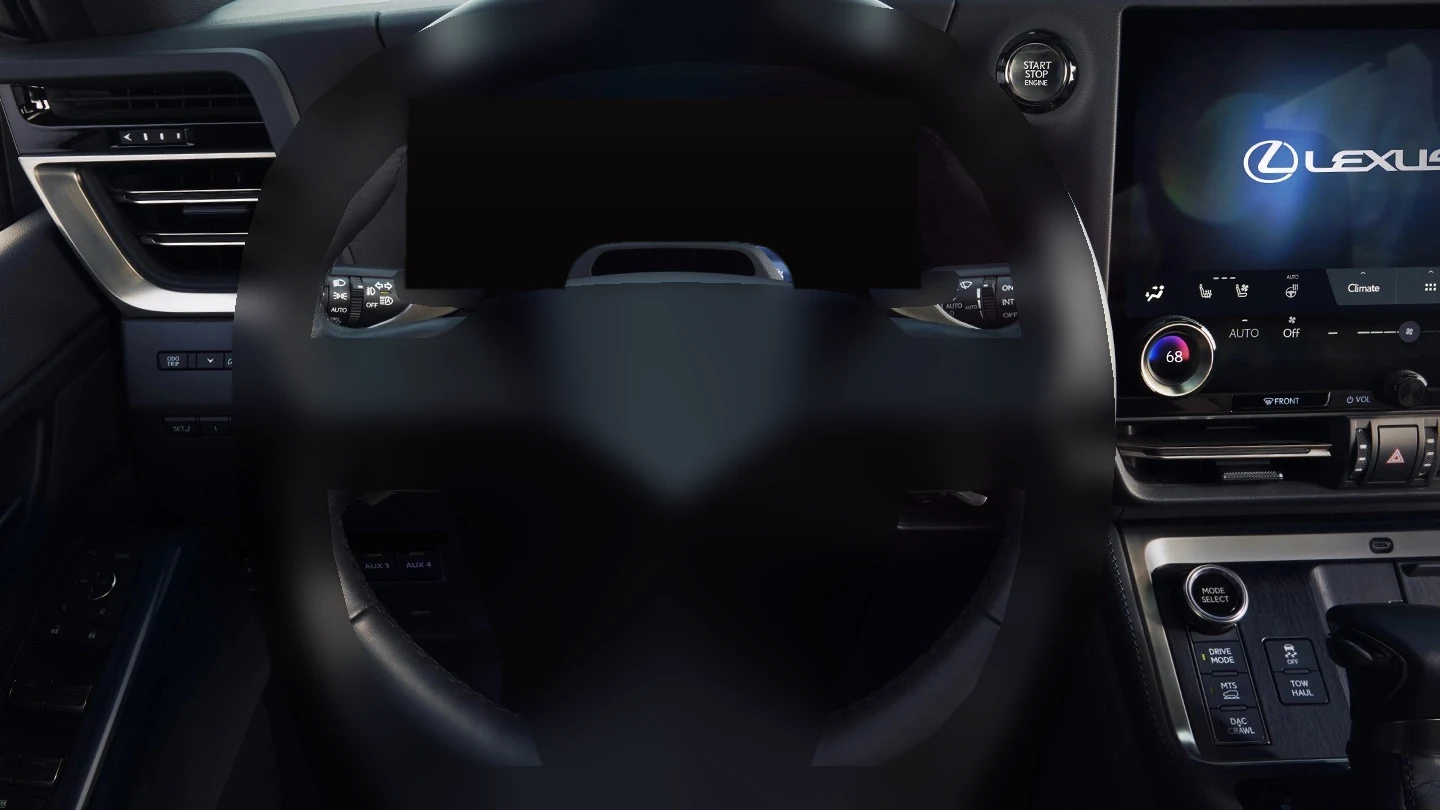
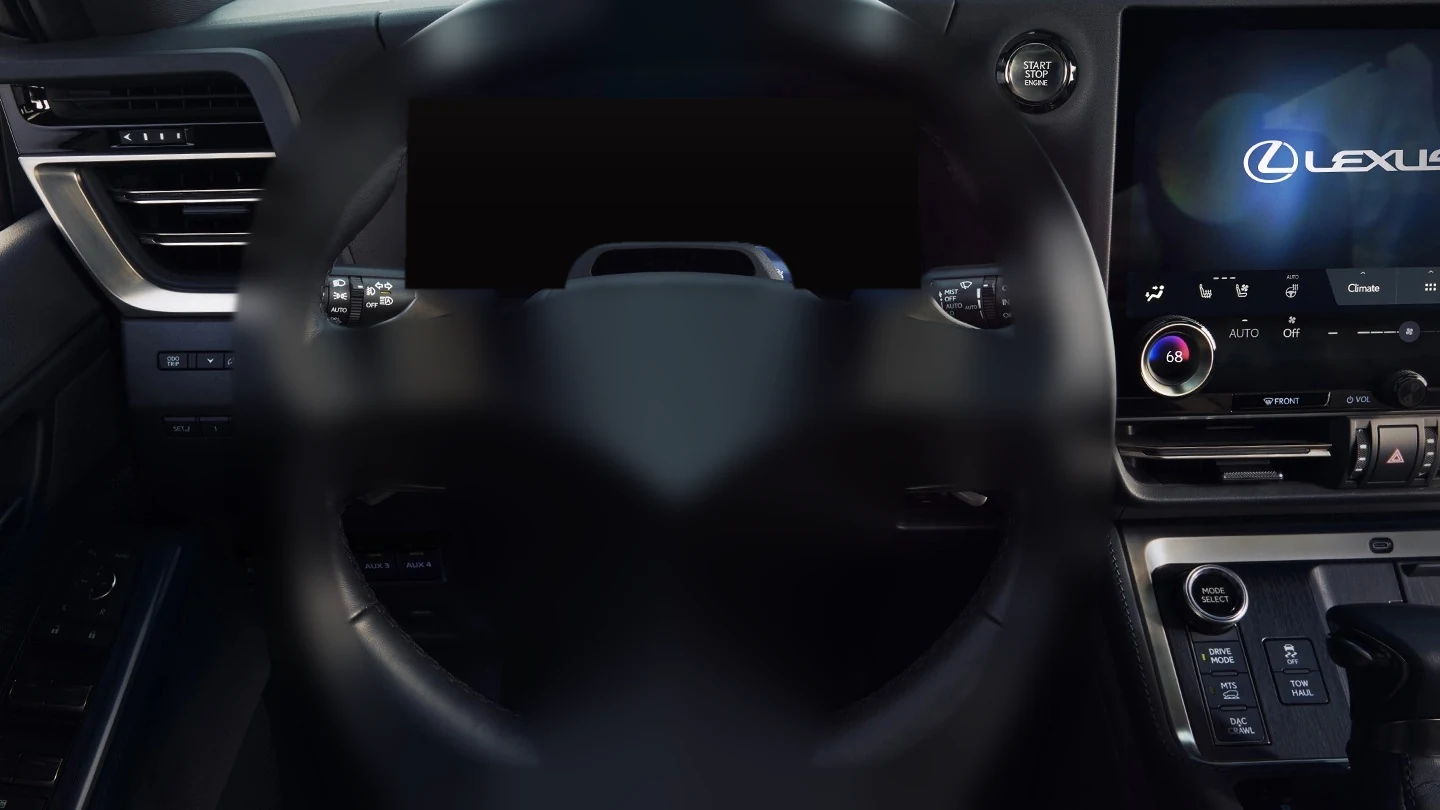
Rotate only the steering wheel; corners from the start
Re-traced the wheel matte: the edge above the spokes now runs just under the
turn-signal and wiper stalks, the right rim's inner edge and both paddles are
traced on the photo, so the stalks stay fixed while the wheel turns. The fill
behind the wheel is blended softly, leaving no ghost outline.

The road now opens with a short straight, then a right-hander, a left-hander
and an S-bend (first corner about 70 m after pulling away); later straights
are shorter too.

Claude-Session: https://claude.ai/code/session_012dHuLUxVx7ZRYT7UA9Zb8h

diff --git a/js/road.js b/js/road.js
@@ -42,7 +42,7 @@
   }
 
   function addSection() {
-    push(0, Math.round(pick(140, 420)));
+    push(0, Math.round(pick(70, 220)));
     const r = rnd();
     const dir = rnd() < 0.5 ? -1 : 1;
     if (r < 0.35) corner(dir, pick(300, 650), pick(20, 45));             // sweeping bend
@@ -54,7 +54,16 @@
     }
   }
 
-  push(0, 450);                    // a straight start
+  // corners from the very start: a short straight while pulling away, then a
+  // right-hander, a left-hander and an S-bend before the random sections begin
+  push(0, 70);
+  corner(1, 150, 55);
+  push(0, 60);
+  corner(-1, 135, 65);
+  push(0, 90);
+  corner(1, 170, 40);
+  push(0, 35);
+  corner(-1, 170, 40);
   function ensure(s) { while (K.length - 2 < s) addSection(); }
 
   function sample(arr, s) {

diff --git a/tools/build_gx_layers.py b/tools/build_gx_layers.py
@@ -42,17 +42,21 @@ OUTER = [
     (1015, 110), (1045, 155), (1068, 205), (1086, 255), (1098, 310), (1108, 380),
     (1110, 450), (1104, 520), (1092, 600), (1068, 680), (1040, 760), (1025, 815),
     (330, 815), (290, 700), (262, 600),]
+# opening above the spokes. Its lower edge follows the top of each spoke and runs
+# just under the turn-signal and wiper stalks, which belong to the column and
+# must stay put when the wheel turns.
 UPPER = [
-    (305, 342), (318, 260), (345, 200), (395, 145), (470, 100), (560, 70), (680, 57),
-    (800, 62), (880, 90), (940, 130), (985, 190), (1010, 250), (1027, 342),
-    (910, 342), (885, 318), (850, 298), (800, 291), (760, 288), (680, 286), (600, 288), (560, 291),
-    (510, 298), (470, 318), (440, 342),
+    (300, 352), (307, 300), (318, 260), (345, 200), (395, 145), (470, 100), (560, 70), (680, 57),
+    (800, 62), (880, 90), (940, 130), (978, 185), (995, 240), (1003, 272), (1010, 300), (1020, 335), (1024, 352),
+    (1016, 344), (986, 337), (950, 329), (910, 323), (870, 316), (840, 308), (800, 296),
+    (760, 288), (680, 286), (600, 288), (560, 294), (530, 305), (500, 314), (470, 318),
+    (420, 322), (370, 327), (330, 334),
 ]
 LOWER_L = [(322, 485), (448, 485), (468, 555), (500, 640), (530, 720), (548, 770),
            (470, 770), (420, 740), (375, 690), (345, 620), (328, 550)]
 LOWER_R = [(1352 - x, y) for x, y in LOWER_L]
-PADDLE_L = [(398, 276), (440, 276), (480, 283), (474, 302), (430, 301), (402, 296)]
-PADDLE_R = [(1352 - x, y) for x, y in PADDLE_L]
+PADDLE_L = [(413, 286), (428, 281), (486, 277), (492, 300), (500, 316), (470, 315), (440, 306), (420, 296)]
+PADDLE_R = [(866, 278), (927, 283), (934, 288), (928, 300), (904, 312), (870, 314), (852, 316), (855, 297)]
 
 wheel = poly(OUTER) & ~poly(UPPER) & ~poly(LOWER_L) & ~poly(LOWER_R)
 wheel |= poly(PADDLE_L) | poly(PADDLE_R)
@@ -94,7 +98,9 @@ sfill = cv2.inpaint(small, smask, 9, cv2.INPAINT_TELEA)
 sfill = cv2.GaussianBlur(sfill, (0, 0), 6)
 big = cv2.resize(sfill, (W, H), interpolation=cv2.INTER_CUBIC)
 dash = im.copy()
-dash[fill] = (big[fill] * 0.7).astype(np.uint8)
+# blend the fill in softly so no outline of the wheel or paddles is left behind
+fa = feather(fill, 3.0)[..., None]
+dash = (dash * (1 - fa) + big * 0.78 * fa).astype(np.uint8)
 # blank screen: deep black glass with a faint top reflection
 glass = screen & ~shroud
 yy, xx = np.mgrid[0:H, 0:W]

diff --git a/README.md b/README.md
@@ -35,7 +35,7 @@ python3 -m http.server 8000   # → http://localhost:8000
 - **클러스터**: 디지털 속도 · 기어 · 외기온 · 시계, 좌측 타코미터 아크(레드존), 우측 MTS 모드 아크, 냉각수온 · 연료 바, 주행거리, 주행가능거리, ECO 표시.
   가운데는 **헤딩업 3D 미니맵**: 경로(파란 선), 지나온 길, 갈림길 · 마을 · 숲 · 강, 다음 교차로 안내(거리 카운트다운), 도로명, 제한속도. 속도가 오르면 지도가 자동으로 축소됩니다.
 - **외부 풍경**: 앞유리 너머로 눈 덮인 2차선 지방도가 보입니다. 직선 · 완만한 커브 · 급커브(최소 R≈127 m) · S자 구간이 이어지고, 커브 바깥쪽 갈매기 표지 · 가드레일, 커브 전 주의 표지, 가로수 · 전신주 · 대향차 · 눈발이 주행과 함께 움직입니다. 커브에서는 먼 산과 숲이 옆으로 흘러갑니다.
-- **커브 주행**: 어시스턴트가 앞의 커브를 보고 미리 감속했다가 빠져나오며 다시 가속합니다. 계기판 안내창에 커브 방향 · 남은 거리 · 권장 속도가 표시됩니다. 핸들은 곡률에 맞춰 돌되 최대 약 ±21°로 스포크가 계기판을 가리지 않습니다.
+- **커브 주행**: 출발 직후 약 70 m 지점부터 커브가 시작됩니다. 어시스턴트가 앞의 커브를 보고 미리 감속했다가 빠져나오며 다시 가속합니다. 계기판 안내창에 커브 방향 · 남은 거리 · 권장 속도가 표시됩니다. 핸들(림 · 스포크 · 허브 · 휠 장착 패들)만 곡률에 맞춰 돌고, 방향지시등 · 와이퍼 레버는 고정됩니다. 최대 약 ±22°로 스포크가 계기판을 가리지 않습니다.
 - **동기화**: 하나의 도로 모델(`js/road.js`)이 앞유리 밖 커브, 미니맵 회전, 핸들 조향각(곡률 × 조향비)을 함께 결정합니다.
 - **사운드**: 트윈터보 V6 합성 엔진음(점화 차수 · 하프 오더 · 흡기 · 터보 휘슬 · 블로오프), 스타터 모터, 타이어 · 노면 · 풍절음, 경고 비프 · 안전벨트 반복 차임 · 주의 차임 · 웰컴 차임.
 - 핸들은 도로 곡률에 맞춰 돌고 미세한 보정 조향이 더해지며, 주행 중에는 그림자와 빛이 은은하게 실내를 지나갑니다.
